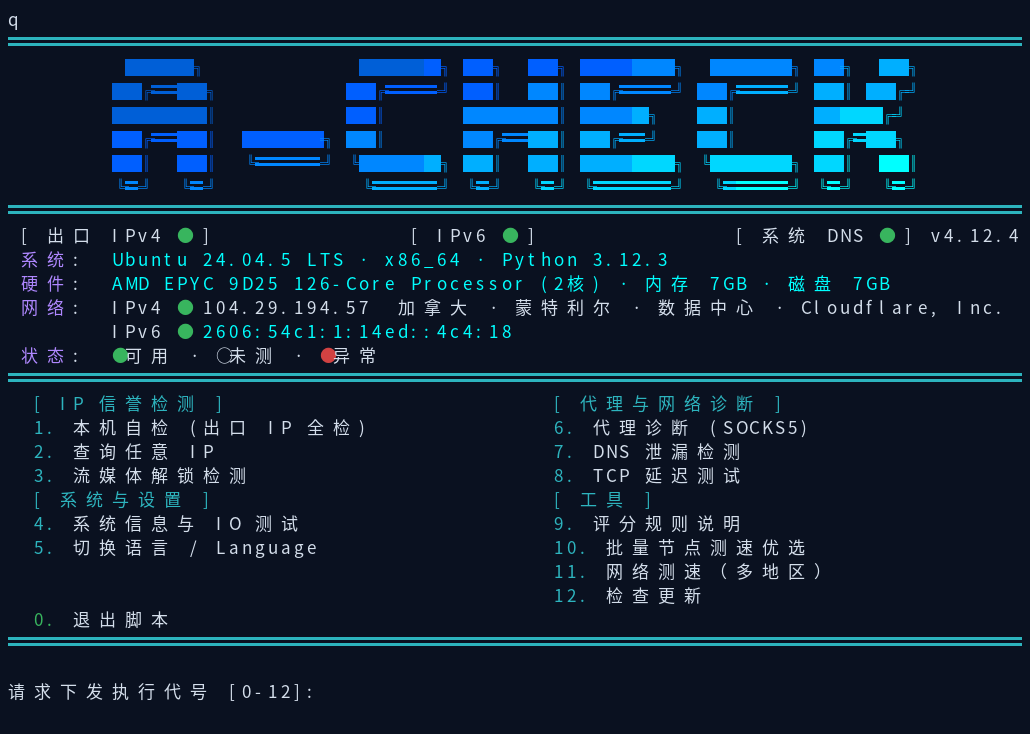
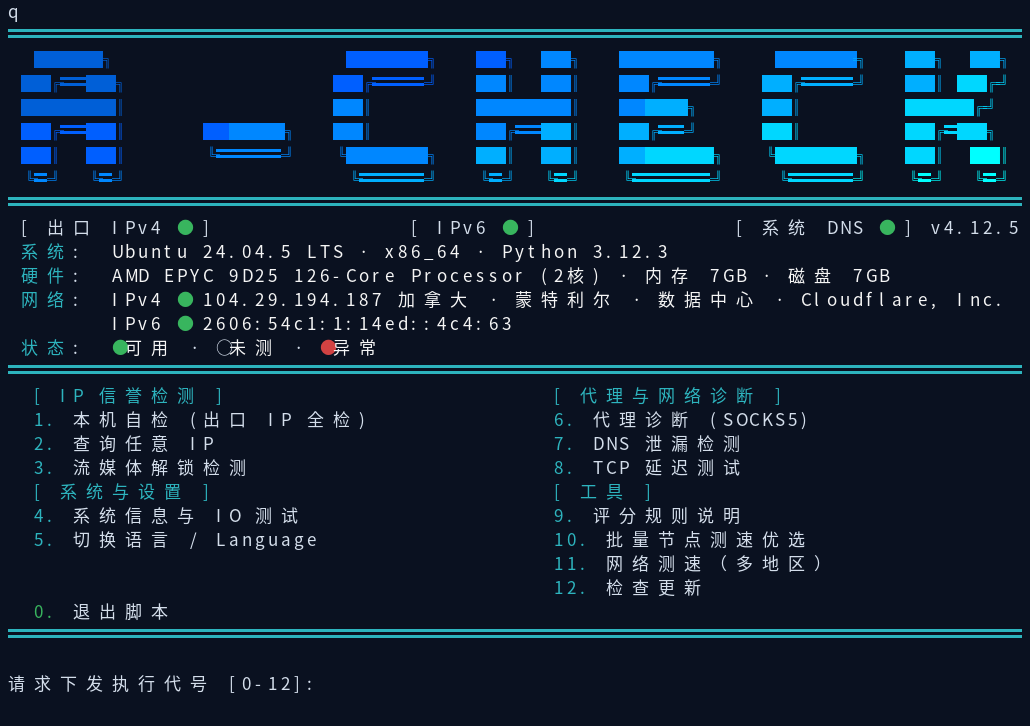
update

diff --git a/acheck.py b/acheck.py
@@ -1,6 +1,6 @@
 #!/usr/bin/env python3
 """
-IP 信誉检测 v4.12.5 — 全量修复与并发优化公开版 (零 API Key 依赖)
+IP 信誉检测 v4.12.6 — 全量修复与并发优化公开版 (零 API Key 依赖)
 
 被动模式: 仅凭 IP 地址做公开情报查询，不发起任何指向该 IP 的主动连接。
   适用: 评估尚未启用的候选 IP (如 AWS EIP)。
@@ -55,7 +55,7 @@ for _s in (sys.stdout, sys.stderr, sys.stdin):
     except Exception:
         pass
 
-VERSION = "4.12.5"
+VERSION = "4.12.6"
 
 
 def _init_console():
@@ -1968,7 +1968,7 @@ class IPInfo(Provider):
 
     def check(self, ip):
         ok, raw = http_get(f"https://ipinfo.io/{ip}/json",
-                           headers={"User-Agent": "A-Check/4.12.5 (+https://github.com/alariclin/A-Check)"},
+                           headers={"User-Agent": "A-Check/4.12.6 (+https://github.com/alariclin/A-Check)"},
                            use_cache=False)
         if not ok:
             return {"ok": False, "err": raw}
@@ -2300,7 +2300,7 @@ def _build_unified_profile(s):
 
 SCORING_RULES = {
     "zh": """
-评分规则 (v4.12.5 免 Key 公开版):
+评分规则 (v4.12.6 免 Key 公开版):
   [威胁行为 0-100] 实际恶意行为证据
     StopForumSpam 垃圾举报命中 (每次+3, 上限25)
     SANS ISC 蜜罐攻击记录 (5 + count//5, 上限25)
@@ -2322,7 +2322,7 @@ SCORING_RULES = {
   [纯净度] = 100 - 综合 (本工具自有换算，非第三方评分)
 """,
     "zh-TW": """
-評分規則 (v4.12.5 免 Key 公開版):
+評分規則 (v4.12.6 免 Key 公開版):
   [威脅行為 0-100] 實際惡意行為證據
     StopForumSpam 垃圾舉報命中 (每次+3, 上限25)
     SANS ISC 蜜罐攻擊記錄 (5 + count//5, 上限25)
@@ -2344,7 +2344,7 @@ SCORING_RULES = {
   [純淨度] = 100 - 綜合 (本工具自有換算，非第三方評分)
 """,
     "en": """
-Scoring rules (v4.12.5 Keyless Public Edition):
+Scoring rules (v4.12.6 Keyless Public Edition):
   [Threat 0-100] Evidence of malicious behavior
     StopForumSpam abuse hits (+3 each, max 25)
     SANS ISC honeypot attacks (5 + count//5, max 25)
@@ -2366,7 +2366,7 @@ Scoring rules (v4.12.5 Keyless Public Edition):
   [Purity] = 100 - Combined (own conversion, not third-party)
 """,
     "ja": """
-スコアリングルール (v4.12.5 キー不要公開版):
+スコアリングルール (v4.12.6 キー不要公開版):
   [脅威行為 0-100] 悪意ある活動の証拠
     StopForumSpam スパム報告 (+3/件, 最大25)
     SANS ISC ハニーポット攻撃記録 (5 + count//5, 最大25)
@@ -2388,7 +2388,7 @@ Scoring rules (v4.12.5 Keyless Public Edition):
   [純度] = 100 - 総合 (独自換算)
 """,
     "ru": """
-Правила оценки (v4.12.5 Публичная версия без ключей):
+Правила оценки (v4.12.6 Публичная версия без ключей):
   [Угрозы 0-100] Доказательства вредоносной активности
     StopForumSpam жалобы (+3 за каждую, макс. 25)
     SANS ISC атаки (5 + count//5, макс. 25)
@@ -2410,7 +2410,7 @@ Scoring rules (v4.12.5 Keyless Public Edition):
   [Чистота] = 100 - Итого
 """,
     "fa": """
-قوانین امتیازدهی (نسخه عمومی بدون کلید v4.12.5):
+قوانین امتیازدهی (نسخه عمومی بدون کلید v4.12.6):
   [رفتار تهدید 0-100] شواهد فعالیت مخرب
     StopForumSpam گزارش اسپم (+3 هر مورد، حداکثر 25)
     SANS ISC حملات ثبتشده (5 + count//5، حداکثر 25)
@@ -3421,7 +3421,7 @@ def get_egress_ip():
     ]
     for url in sources:
         try:
-            _ua = {"User-Agent": "A-Check/4.12.5 (+https://github.com/alariclin/A-Check)"} if "ipinfo.io" in url else {"User-Agent": UA_BROWSER}
+            _ua = {"User-Agent": "A-Check/4.12.6 (+https://github.com/alariclin/A-Check)"} if "ipinfo.io" in url else {"User-Agent": UA_BROWSER}
             req = urllib.request.Request(url, headers=_ua)
             with urllib.request.urlopen(req, timeout=6) as r:
                 raw = r.read(512).decode("utf-8", errors="replace").strip()
@@ -5283,12 +5283,53 @@ _LOGO_PALETTE = [26, 27, 33, 39, 45, 51]  # 深蓝 -> 青 渐变 (256 色)
 _banner_net_cache = None
 
 
+def _logo_spread(lines, target=76):
+    """把 Logo 的字间间隔列均匀注空格, 拉宽到 target 列 (字形本身不动)。"""
+    if not lines:
+        return list(lines)
+    w0 = max(len(l) for l in lines)
+    if w0 >= target:
+        return list(lines)
+    gaps = [c for c in range(1, w0 - 1)
+            if all(c >= len(l) or l[c] == " " for l in lines)]
+    if not gaps:
+        return list(lines)
+    groups = [[gaps[0]]]
+    for c in gaps[1:]:
+        if c == groups[-1][-1] + 1:
+            groups[-1].append(c)
+        else:
+            groups.append([c])
+    add = target - w0
+    total_gap = sum(len(g) for g in groups)
+    insert_at = {}
+    rem = add
+    for i, g in enumerate(groups):
+        if i == len(groups) - 1:
+            a = rem
+        else:
+            a = max(1, round(add * len(g) / total_gap))
+            a = min(a, rem - (len(groups) - 1 - i))
+        insert_at[g[-1]] = a
+        rem -= a
+    out = []
+    for l in lines:
+        buf = []
+        for c, ch in enumerate(l):
+            buf.append(ch)
+            if c in insert_at:
+                buf.append(" " * insert_at[c])
+        out.append("".join(buf))
+    return out
+
+
 def _logo_render():
     """给 Logo 上蓝->青对角渐变色 (256 色), 无色环境返回原文。"""
+    lines = _logo_spread(_LOGO_LINES)
     if not _use_color():
-        return list(_LOGO_LINES)
+        return lines
     out = []
-    for r, line in enumerate(_LOGO_LINES):
+    for r, line in enumerate(lines):
         buf = []
         for ci, ch in enumerate(line):
             if ch == " ":
@@ -5395,6 +5436,11 @@ def _violet(s):
     return "\033[38;5;141m%s\033[0m" % s if _use_color() else s
 
 
+def _white(s):
+    """亮白色 (横幅数值), 无色环境返回原文。"""
+    return "\033[97m%s\033[0m" % s if _use_color() else s
+
+
 def _teal(s):
     """青色数值 (参考图配色), 无色环境返回原文。"""
     return "\033[38;5;51m%s\033[0m" % s if _use_color() else s
@@ -5444,21 +5490,21 @@ def print_banner():
             pass
     cores = os.cpu_count() or 0
     pyv = "%d.%d.%d" % sys.version_info[:3]
-    print(" %s:  %s" % (_violet(T("bn_system")),
-                         _teal("%s · %s · Python %s" % (os_name, si.get("arch", "?"), pyv))))
+    print(" %s:  %s" % (_c(C.cyan, T("bn_system")),
+                         _white("%s · %s · Python %s" % (os_name, si.get("arch", "?"), pyv))))
     cpu = (si.get("cpu") or "?")[:36]
-    print(" %s:  %s" % (_violet(T("bn_hardware")),
-                         _teal("%s (%d%s) · %s %s · %s %s" % (
+    print(" %s:  %s" % (_c(C.cyan, T("bn_hardware")),
+                         _white("%s (%d%s) · %s %s · %s %s" % (
                              cpu, cores, T("bn_cores"),
                              T("sys_mem"), si.get("mem", "?"),
                              T("sys_disk"), si.get("disk", "?")))))
     # 网络行
     if net["egress"]:
-        v4 = "%s %s %s" % (_c(C.green, "●"), net["egress"],
-                           (" " + net["geo"]) if net["geo"] else "")
+        v4 = "%s %s" % (_c(C.green, "●"),
+                        _white(net["egress"] + ((" " + net["geo"]) if net["geo"] else "")))
     else:
-        v4 = "%s %s" % (_c(C.dim, "○"), T("bn_none"))
-    print(" %s:  IPv4 %s" % (_violet(T("bn_network")), _teal(v4)))
+        v4 = "%s %s" % (_c(C.dim, "○"), _white(T("bn_none")))
+    print(" %s:  %s" % (_c(C.cyan, T("bn_network")), _white("IPv4 ") + v4))
     v6 = _c(C.green, "●") if net["ipv6"] else _c(C.dim, "○")
     if net.get("ipv6_addr"):
         v6t = " " + net["ipv6_addr"]
@@ -5466,12 +5512,12 @@ def print_banner():
         v6t = ""
     else:
         v6t = " " + T("bn_none")
-    print("        IPv6 %s%s" % (v6, _teal(v6t) if v6t else ""))
+    print("        %s%s" % (_white("IPv6 "), v6 + (_white(v6t) if v6t else "")))
     # 状态行 (图例)
     legend = "%s%s · %s%s · %s%s" % (
-        _c(C.green, "●"), T("bn_ok"), _c(C.dim, "○"), T("bn_untested"),
-        _c(C.red, "●"), T("bn_fault"))
-    print(" %s:  %s" % (_violet(T("bn_status")), legend))
+        _c(C.green, "●"), _white(T("bn_ok")), _c(C.dim, "○"),
+        _white(T("bn_untested")), _c(C.red, "●"), _white(T("bn_fault")))
+    print(" %s:  %s" % (_c(C.cyan, T("bn_status")), legend))
     print(border)
 
 

diff --git a/README.fa.md b/README.fa.md
@@ -5,7 +5,7 @@
 <p align="center">اعتبار IP · عیبیابی پروکسی · انتخاب دستهای گرهها — ابزار تکفایلی پایتون</p>
 
 <p align="center">
-  <img src="https://img.shields.io/badge/release-v4.12.5-1f883d" alt="release">
+  <img src="https://img.shields.io/badge/release-v4.12.6-1f883d" alt="release">
   <img src="https://img.shields.io/badge/python-3.8%2B-3776ab" alt="python">
   <img src="https://img.shields.io/badge/platform-macOS%20%7C%20Windows%20%7C%20Linux-8250df" alt="platform">
   <img src="https://img.shields.io/badge/license-MIT-d7781e" alt="license">
@@ -56,7 +56,7 @@ python3 acheck.py 8.8.8.8     # استعلام هر IP عمومی
 python3 acheck.py --active    # خودآزمایی
 ```
 
-بستههای macOS / Windows / Linux در صفحه [Releases](https://github.com/alariclin/A-Check/releases) هستند (`A-Check-v4.12.5-mac.zip` / `A-Check-v4.12.5-windows.zip` / `A-Check-v4.12.5-linux.zip`) — از حالت فشرده خارج کنید و `run.command` / `run.bat` / `run.sh` را اجرا کنید.
+بستههای macOS / Windows / Linux در صفحه [Releases](https://github.com/alariclin/A-Check/releases) هستند (`A-Check-v4.12.6-mac.zip` / `A-Check-v4.12.6-windows.zip` / `A-Check-v4.12.6-linux.zip`) — از حالت فشرده خارج کنید و `run.command` / `run.bat` / `run.sh` را اجرا کنید.
 
 ## روش استفاده
 

diff --git a/README.ru.md b/README.ru.md
@@ -5,7 +5,7 @@
 <p align="center">Репутация IP · диагностика прокси · пакетный выбор узлов — однофайловый чекер на Python</p>
 
 <p align="center">
-  <img src="https://img.shields.io/badge/release-v4.12.5-1f883d" alt="release">
+  <img src="https://img.shields.io/badge/release-v4.12.6-1f883d" alt="release">
   <img src="https://img.shields.io/badge/python-3.8%2B-3776ab" alt="python">
   <img src="https://img.shields.io/badge/platform-macOS%20%7C%20Windows%20%7C%20Linux-8250df" alt="platform">
   <img src="https://img.shields.io/badge/license-MIT-d7781e" alt="license">
@@ -56,7 +56,7 @@ python3 acheck.py 8.8.8.8     # запрос любого публичного I
 python3 acheck.py --active    # самопроверка
 ```
 
-Пакеты для macOS / Windows / Linux — на странице [Releases](https://github.com/alariclin/A-Check/releases) (`A-Check-v4.12.5-mac.zip` / `A-Check-v4.12.5-windows.zip` / `A-Check-v4.12.5-linux.zip`): распаковать и запустить `run.command` / `run.bat` / `run.sh`.
+Пакеты для macOS / Windows / Linux — на странице [Releases](https://github.com/alariclin/A-Check/releases) (`A-Check-v4.12.6-mac.zip` / `A-Check-v4.12.6-windows.zip` / `A-Check-v4.12.6-linux.zip`): распаковать и запустить `run.command` / `run.bat` / `run.sh`.
 
 ## Использование
 

diff --git a/README.ja.md b/README.ja.md
@@ -5,7 +5,7 @@
 <p align="center">IPレピュテーション · プロキシ診断 · ノード一括選別 — 単一ファイルのPythonチェッカー</p>
 
 <p align="center">
-  <img src="https://img.shields.io/badge/release-v4.12.5-1f883d" alt="release">
+  <img src="https://img.shields.io/badge/release-v4.12.6-1f883d" alt="release">
   <img src="https://img.shields.io/badge/python-3.8%2B-3776ab" alt="python">
   <img src="https://img.shields.io/badge/platform-macOS%20%7C%20Windows%20%7C%20Linux-8250df" alt="platform">
   <img src="https://img.shields.io/badge/license-MIT-d7781e" alt="license">
@@ -56,7 +56,7 @@ python3 acheck.py 8.8.8.8     # 任意のIPを照会
 python3 acheck.py --active    # セルフチェック
 ```
 
-macOS / Windows / Linux 用パッケージは [Releases](https://github.com/alariclin/A-Check/releases) ページ（`A-Check-v4.12.5-mac.zip` / `A-Check-v4.12.5-windows.zip` / `A-Check-v4.12.5-linux.zip`）から。解凍して `run.command` / `run.bat` / `run.sh` を実行してください。
+macOS / Windows / Linux 用パッケージは [Releases](https://github.com/alariclin/A-Check/releases) ページ（`A-Check-v4.12.6-mac.zip` / `A-Check-v4.12.6-windows.zip` / `A-Check-v4.12.6-linux.zip`）から。解凍して `run.command` / `run.bat` / `run.sh` を実行してください。
 
 ## 使い方
 

diff --git a/README.zh-TW.md b/README.zh-TW.md
@@ -5,7 +5,7 @@
 <p align="center">IP 純淨度 · 代理診斷 · 批量節點優選 — 純 Python 單文件檢測工具</p>
 
 <p align="center">
-  <img src="https://img.shields.io/badge/release-v4.12.5-1f883d" alt="release">
+  <img src="https://img.shields.io/badge/release-v4.12.6-1f883d" alt="release">
   <img src="https://img.shields.io/badge/python-3.8%2B-3776ab" alt="python">
   <img src="https://img.shields.io/badge/platform-macOS%20%7C%20Windows%20%7C%20Linux-8250df" alt="platform">
   <img src="https://img.shields.io/badge/license-MIT-d7781e" alt="license">
@@ -56,7 +56,7 @@ python3 acheck.py 8.8.8.8     # 查任意公網 IP
 python3 acheck.py --active    # 本機自檢
 ```
 
-macOS / Windows / Linux 安裝包在 [Releases](https://github.com/alariclin/A-Check/releases) 頁下載（`A-Check-v4.12.5-mac.zip` / `A-Check-v4.12.5-windows.zip` / `A-Check-v4.12.5-linux.zip`），解壓後運行 `run.command` / `run.bat` / `run.sh` 即可。
+macOS / Windows / Linux 安裝包在 [Releases](https://github.com/alariclin/A-Check/releases) 頁下載（`A-Check-v4.12.6-mac.zip` / `A-Check-v4.12.6-windows.zip` / `A-Check-v4.12.6-linux.zip`），解壓後運行 `run.command` / `run.bat` / `run.sh` 即可。
 
 ## 使用方法
 

diff --git a/README.zh.md b/README.zh.md
@@ -5,7 +5,7 @@
 <p align="center">IP 纯净度 · 代理诊断 · 批量节点优选 — 纯 Python 单文件检测工具</p>
 
 <p align="center">
-  <img src="https://img.shields.io/badge/release-v4.12.5-1f883d" alt="release">
+  <img src="https://img.shields.io/badge/release-v4.12.6-1f883d" alt="release">
   <img src="https://img.shields.io/badge/python-3.8%2B-3776ab" alt="python">
   <img src="https://img.shields.io/badge/platform-macOS%20%7C%20Windows%20%7C%20Linux-8250df" alt="platform">
   <img src="https://img.shields.io/badge/license-MIT-d7781e" alt="license">
@@ -56,7 +56,7 @@ python3 acheck.py 8.8.8.8     # 查任意公网 IP
 python3 acheck.py --active    # 本机自检
 ```
 
-macOS / Windows / Linux 安装包在 [Releases](https://github.com/alariclin/A-Check/releases) 页下载（`A-Check-v4.12.5-mac.zip` / `A-Check-v4.12.5-windows.zip` / `A-Check-v4.12.5-linux.zip`），解压后运行 `run.command` / `run.bat` / `run.sh` 即可。
+macOS / Windows / Linux 安装包在 [Releases](https://github.com/alariclin/A-Check/releases) 页下载（`A-Check-v4.12.6-mac.zip` / `A-Check-v4.12.6-windows.zip` / `A-Check-v4.12.6-linux.zip`），解压后运行 `run.command` / `run.bat` / `run.sh` 即可。
 
 ## 使用方法
 

diff --git a/README.en.md b/README.en.md
@@ -5,7 +5,7 @@
 <p align="center">IP reputation · proxy diagnostics · batch node picking — a single-file Python checker</p>
 
 <p align="center">
-  <img src="https://img.shields.io/badge/release-v4.12.5-1f883d" alt="release">
+  <img src="https://img.shields.io/badge/release-v4.12.6-1f883d" alt="release">
   <img src="https://img.shields.io/badge/python-3.8%2B-3776ab" alt="python">
   <img src="https://img.shields.io/badge/platform-macOS%20%7C%20Windows%20%7C%20Linux-8250df" alt="platform">
   <img src="https://img.shields.io/badge/license-MIT-d7781e" alt="license">
@@ -56,7 +56,7 @@ python3 acheck.py 8.8.8.8     # query any public IP
 python3 acheck.py --active    # self-check
 ```
 
-Packages for macOS / Windows / Linux are on the [Releases](https://github.com/alariclin/A-Check/releases) page (`A-Check-v4.12.5-mac.zip` / `A-Check-v4.12.5-windows.zip` / `A-Check-v4.12.5-linux.zip`) — unzip and run `run.command` / `run.bat` / `run.sh`.
+Packages for macOS / Windows / Linux are on the [Releases](https://github.com/alariclin/A-Check/releases) page (`A-Check-v4.12.6-mac.zip` / `A-Check-v4.12.6-windows.zip` / `A-Check-v4.12.6-linux.zip`) — unzip and run `run.command` / `run.bat` / `run.sh`.
 
 ## Usage
 

diff --git a/README.md b/README.md
@@ -5,7 +5,7 @@
 <p align="center">IP reputation · proxy diagnostics · batch node picking — a single-file Python checker</p>
 
 <p align="center">
-  <img src="https://img.shields.io/badge/release-v4.12.5-1f883d" alt="release">
+  <img src="https://img.shields.io/badge/release-v4.12.6-1f883d" alt="release">
   <img src="https://img.shields.io/badge/python-3.8%2B-3776ab" alt="python">
   <img src="https://img.shields.io/badge/platform-macOS%20%7C%20Windows%20%7C%20Linux-8250df" alt="platform">
   <img src="https://img.shields.io/badge/license-MIT-d7781e" alt="license">
@@ -56,7 +56,7 @@ python3 acheck.py 8.8.8.8     # query any public IP
 python3 acheck.py --active    # self-check
 ```
 
-Packages for macOS / Windows / Linux are on the [Releases](https://github.com/alariclin/A-Check/releases) page (`A-Check-v4.12.5-mac.zip` / `A-Check-v4.12.5-windows.zip` / `A-Check-v4.12.5-linux.zip`) — unzip and run `run.command` / `run.bat` / `run.sh`.
+Packages for macOS / Windows / Linux are on the [Releases](https://github.com/alariclin/A-Check/releases) page (`A-Check-v4.12.6-mac.zip` / `A-Check-v4.12.6-windows.zip` / `A-Check-v4.12.6-linux.zip`) — unzip and run `run.command` / `run.bat` / `run.sh`.
 
 ## Usage
 
